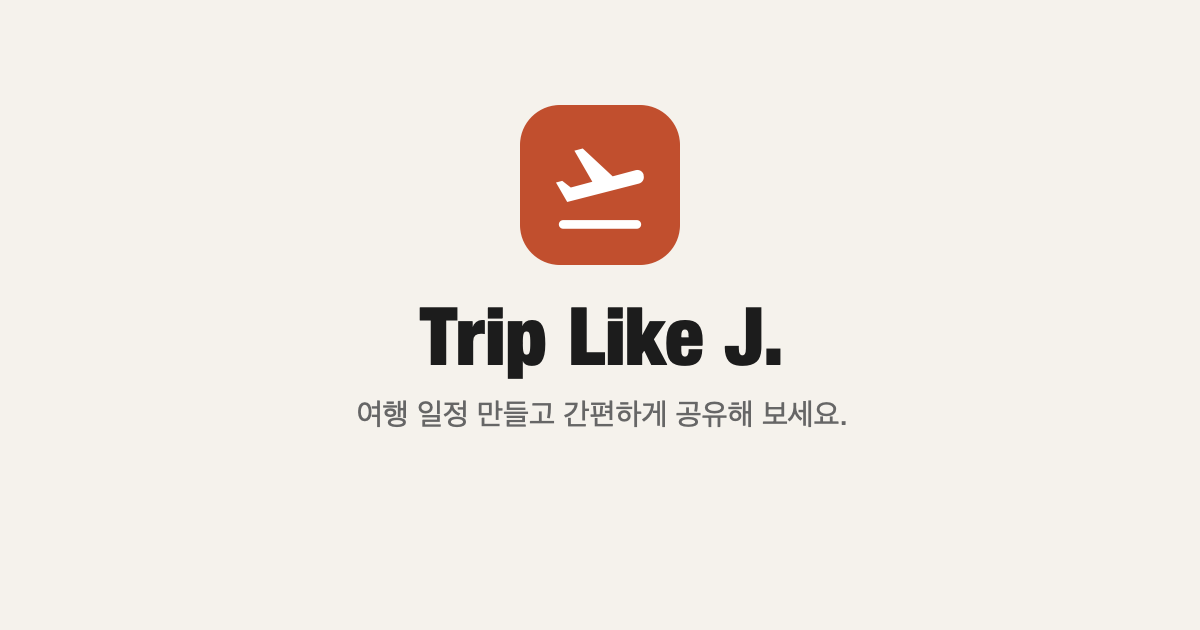
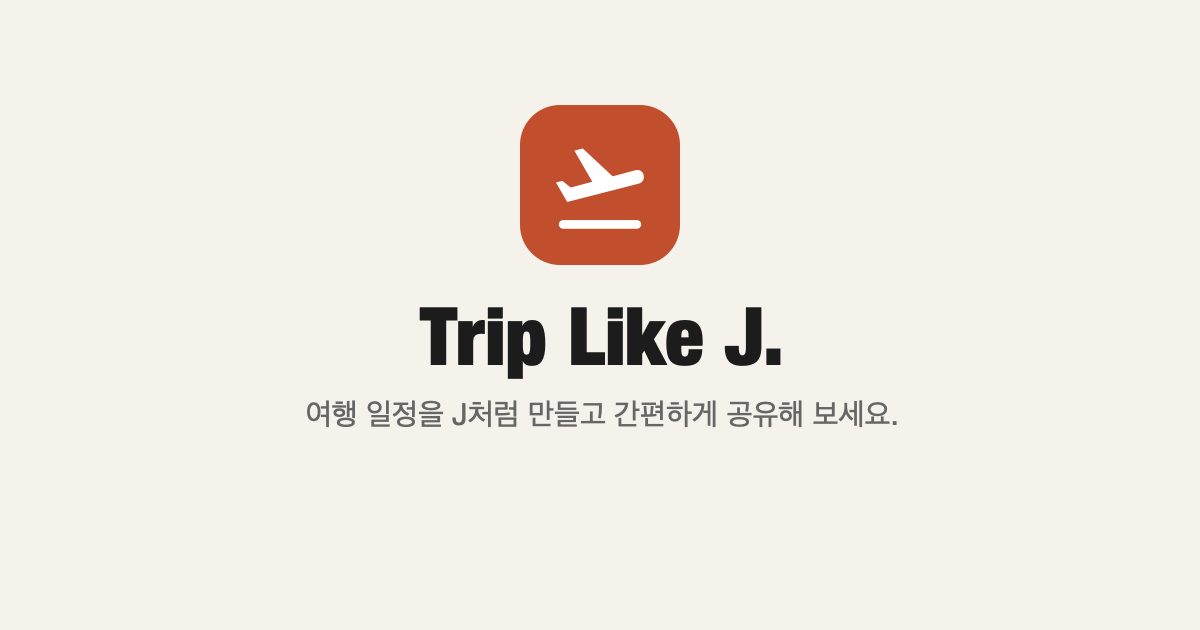
Update subtitle to '여행 일정을 J처럼 만들고 간편하게 공유해 보세요.'
Updated in login screen, meta description, OG description, og-image.

Changed region(s): [[0.2467, 0.6333, 0.74, 0.6937]]

diff --git a/docs/index.html b/docs/index.html
@@ -13,12 +13,12 @@
 <meta property="og:type"        content="website"/>
 <meta property="og:url"         content="https://arschooling.github.io/TripLikeJ/"/>
 <meta property="og:title"       content="Trip Like J"/>
-<meta property="og:description" content="여행 일정 만들고 간편하게 공유해 보세요."/>
+<meta property="og:description" content="여행 일정을 J처럼 만들고 간편하게 공유해 보세요."/>
 <meta property="og:image"       content="https://arschooling.github.io/TripLikeJ/og-image.png"/>
 <meta property="og:image:width" content="1200"/>
 <meta property="og:image:height"content="630"/>
 <meta name="twitter:card"       content="summary_large_image"/>
-<meta name="description"        content="여행 일정 만들고 간편하게 공유해 보세요."/>
+<meta name="description"        content="여행 일정을 J처럼 만들고 간편하게 공유해 보세요."/>
 <!-- 폰트 비차단 로드 -->
 <link rel="preconnect" href="https://fonts.googleapis.com"/>
 <link rel="preconnect" href="https://fonts.gstatic.com" crossorigin/>

diff --git a/docs/app.js b/docs/app.js
@@ -5389,7 +5389,7 @@ function LoginScreen({
       lineHeight: 1.5,
       animation: 'charPop 0.55s cubic-bezier(0.34,1.56,0.64,1) 1.38s both'
     }
-  }, "\uC5EC\uD589 \uC77C\uC815 \uB9CC\uB4E4\uACE0 \uAC04\uD3B8\uD558\uAC8C \uACF5\uC720\uD574 \uBCF4\uC138\uC694."), /*#__PURE__*/React.createElement("button", {
+  }, "\uC5EC\uD589 \uC77C\uC815\uC744 J\uCC98\uB7FC \uB9CC\uB4E4\uACE0 \uAC04\uD3B8\uD558\uAC8C \uACF5\uC720\uD574 \uBCF4\uC138\uC694."), /*#__PURE__*/React.createElement("button", {
     onClick: handleLogin,
     disabled: loading,
     style: {

diff --git a/docs/app.jsx b/docs/app.jsx
@@ -2564,7 +2564,7 @@ function LoginScreen({ errorMsg, onLoginStart }) {
       </div>
       <div style={{ fontFamily:SANS, fontSize:15, color:COLORS.mute, marginBottom:56, lineHeight:1.5,
         animation:'charPop 0.55s cubic-bezier(0.34,1.56,0.64,1) 1.38s both' }}>
-        여행 일정 만들고 간편하게 공유해 보세요.
+        여행 일정을 J처럼 만들고 간편하게 공유해 보세요.
       </div>
       <button onClick={handleLogin} disabled={loading}
         style={{ display:'flex', alignItems:'center', gap:12, padding:'14px 28px',

diff --git a/docs/bundle.js b/docs/bundle.js
@@ -7149,7 +7149,7 @@ function LoginScreen({
       lineHeight: 1.5,
       animation: 'charPop 0.55s cubic-bezier(0.34,1.56,0.64,1) 1.38s both'
     }
-  }, "\uC5EC\uD589 \uC77C\uC815 \uB9CC\uB4E4\uACE0 \uAC04\uD3B8\uD558\uAC8C \uACF5\uC720\uD574 \uBCF4\uC138\uC694."), /*#__PURE__*/React.createElement("button", {
+  }, "\uC5EC\uD589 \uC77C\uC815\uC744 J\uCC98\uB7FC \uB9CC\uB4E4\uACE0 \uAC04\uD3B8\uD558\uAC8C \uACF5\uC720\uD574 \uBCF4\uC138\uC694."), /*#__PURE__*/React.createElement("button", {
     onClick: handleLogin,
     disabled: loading,
     style: {

diff --git a/docs/bundle.min.js b/docs/bundle.min.js
@@ -7149,7 +7149,7 @@ function LoginScreen({
       lineHeight: 1.5,
       animation: 'charPop 0.55s cubic-bezier(0.34,1.56,0.64,1) 1.38s both'
     }
-  }, "\uC5EC\uD589 \uC77C\uC815 \uB9CC\uB4E4\uACE0 \uAC04\uD3B8\uD558\uAC8C \uACF5\uC720\uD574 \uBCF4\uC138\uC694."), /*#__PURE__*/React.createElement("button", {
+  }, "\uC5EC\uD589 \uC77C\uC815\uC744 J\uCC98\uB7FC \uB9CC\uB4E4\uACE0 \uAC04\uD3B8\uD558\uAC8C \uACF5\uC720\uD574 \uBCF4\uC138\uC694."), /*#__PURE__*/React.createElement("button", {
     onClick: handleLogin,
     disabled: loading,
     style: {